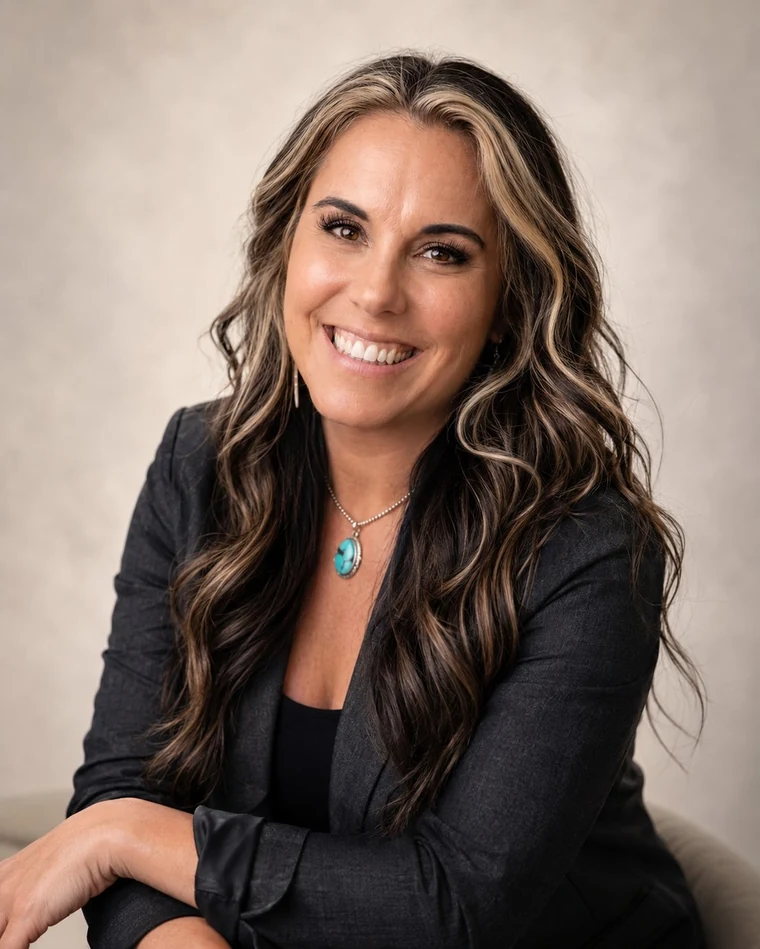
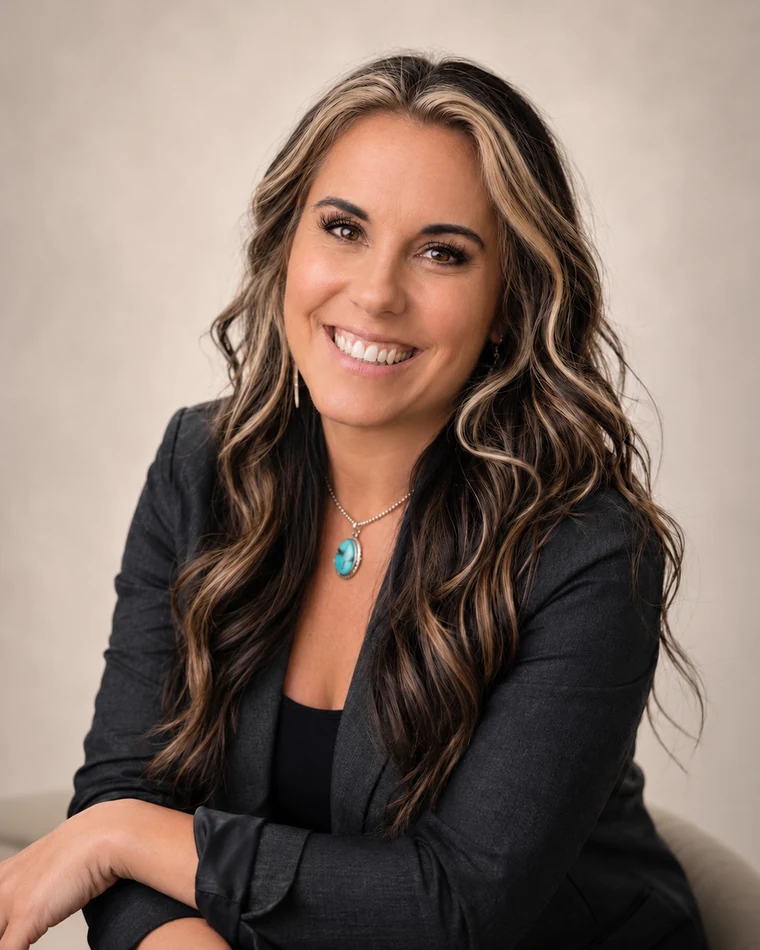
Replace hero portrait with new refined headshot
Regenerated all sized JPEG/WebP versions (480/760/1000) from the new photo.

Claude-Session: https://claude.ai/code/session_016GffCvMyfgFbHHgX4bt5jJ

diff --git a/index.html b/index.html
@@ -473,7 +473,7 @@ footer a:hover{color:var(--rose)}
         <div class="arch">
           <picture>
             <source type="image/webp" srcset="ashley-portrait-480.webp 480w, ashley-portrait-760.webp 760w, ashley-portrait-1000.webp 1000w" sizes="(min-width:960px) 440px, calc(100vw - 32px)">
-            <img src="ashley-portrait-760.jpg" srcset="ashley-portrait-480.jpg 480w, ashley-portrait-760.jpg 760w, ashley-portrait.jpg 1000w" sizes="(min-width:960px) 440px, calc(100vw - 32px)" alt="Ashley Sara, Search Experience Strategist, smiling in a dark blazer with a turquoise pendant" width="1000" height="1249" fetchpriority="high" decoding="async">
+            <img src="ashley-portrait-760.jpg" srcset="ashley-portrait-480.jpg 480w, ashley-portrait-760.jpg 760w, ashley-portrait.jpg 1000w" sizes="(min-width:960px) 440px, calc(100vw - 32px)" alt="Ashley Sara, Search Experience Strategist, smiling in a dark blazer with a turquoise pendant" width="1000" height="1250" fetchpriority="high" decoding="async">
           </picture>
         </div>
         <div class="badge" aria-hidden="true">
